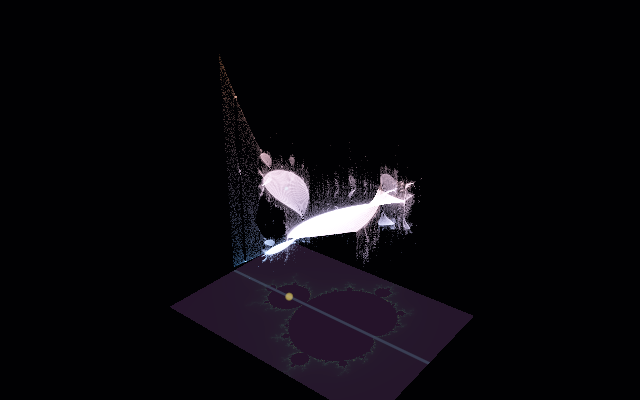
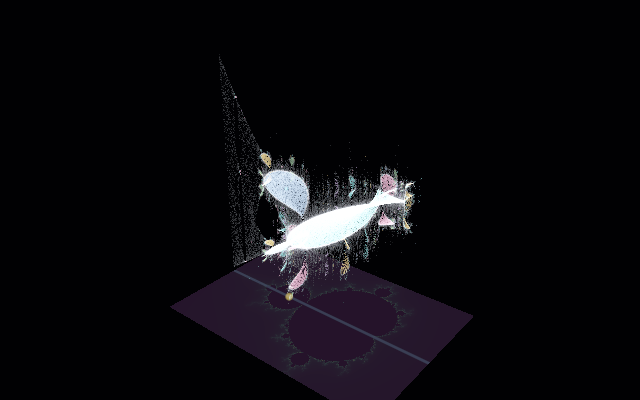
23-logistic-mandelbrot-colours: period, height, and mono colour modes
Colour that carries the mathematics: period mode (new default) gives
each detected period a categorical hue — teal cardioid, twilight-blue
period-2 disc, rose period 3, amber 4, cycling upward, chaos in a
receding slate — all softened 20% toward white so additive overlap
saturates gracefully. Height mode ramps an ice family over Re(z) for
the sheet stack; mono preserves the previous rendering verbatim as the
regression baseline. Per-point period attribute flows from the
sampler's estimates; presets pick deliberate modes (full object =
period, curtain = height, cascade = mono); thumbnail regenerated. Sol
PASS on all six criteria, including a HEAD-diff proof of mono
equivalence.

Autometta-Orchestrator: Claude Fable 5 <claude-fable-5@local>
Autometta-Worker: Claude Fable 5 <claude-fable-5@local>
Autometta-Verifier: GPT-5.6 Sol <gpt-5-6-sol@local>

Changed region(s): [[0.375, 0.36, 0.6562, 0.75]]

diff --git a/src/app/orbit3d.ts b/src/app/orbit3d.ts
@@ -15,9 +15,38 @@ const POINT_VERTEX_SHADER = `#version 300 es
 precision highp float;
 
 in vec3 a_position;
+in float a_period;
 uniform mat4 u_viewProjection;
 uniform float u_pointSize;
+uniform int u_colourMode;
 out vec3 v_colour;
+
+// Categorical hues for periods 1..7 drawn from the repo's ramp language
+// (viridis teal/green, twilight blue/violet, plasma rose, amber, ice cyan);
+// periods above seven reuse the wheel. Every hue is softened toward white in
+// main() so additive stacking saturates gracefully instead of clipping.
+vec3 periodHue(int p) {
+  int index = (p - 1) % 7;
+  if (index == 0) return vec3(0.129, 0.569, 0.549);
+  if (index == 1) return vec3(0.255, 0.431, 0.686);
+  if (index == 2) return vec3(0.800, 0.278, 0.471);
+  if (index == 3) return vec3(0.933, 0.612, 0.094);
+  if (index == 4) return vec3(0.165, 0.863, 0.863);
+  if (index == 5) return vec3(0.369, 0.788, 0.384);
+  return vec3(0.549, 0.314, 0.745);
+}
+
+// Ice-family ramp over normalised Re(z), lifted at the dark end so low sheets
+// stay visible against the near-black background.
+vec3 heightRamp(float t) {
+  vec3 deep = vec3(0.06, 0.16, 0.40);
+  vec3 mid = vec3(0.10, 0.45, 0.72);
+  vec3 glow = vec3(0.35, 0.85, 0.86);
+  vec3 pale = vec3(0.93, 0.98, 1.00);
+  if (t < 0.4) return mix(deep, mid, t / 0.4);
+  if (t < 0.75) return mix(mid, glow, (t - 0.4) / 0.35);
+  return mix(glow, pale, (t - 0.75) / 0.25);
+}
 
 void main() {
   vec3 world = vec3(
@@ -29,10 +58,18 @@ void main() {
   gl_PointSize = u_pointSize;
 
   float height = clamp((a_position.z + 2.0) * 0.25, 0.0, 1.0);
-  float offAxis = clamp(abs(a_position.y), 0.0, 1.0);
-  vec3 low = vec3(0.08, 0.38, 0.92);
-  vec3 high = vec3(1.0, 0.35, 0.12);
-  v_colour = mix(low, high, height) * mix(1.35, 0.82, offAxis);
+  if (u_colourMode == 0) {
+    int p = int(a_period + 0.5);
+    vec3 hue = p <= 0 ? vec3(0.44, 0.47, 0.53) : periodHue(p);
+    v_colour = mix(hue, vec3(1.0), 0.2) * 1.1;
+  } else if (u_colourMode == 1) {
+    v_colour = mix(heightRamp(height), vec3(1.0), 0.12) * 1.1;
+  } else {
+    float offAxis = clamp(abs(a_position.y), 0.0, 1.0);
+    vec3 low = vec3(0.08, 0.38, 0.92);
+    vec3 high = vec3(1.0, 0.35, 0.12);
+    v_colour = mix(low, high, height) * mix(1.35, 0.82, offAxis);
+  }
 }
 `;
 
@@ -217,6 +254,14 @@ export interface Orbit3DGroundPlane {
 
 export type Orbit3DCameraPose = "default" | "side";
 
+export type Orbit3DColourMode = "period" | "height" | "mono";
+
+const COLOUR_MODE_INDEX: Record<Orbit3DColourMode, number> = {
+  period: 0,
+  height: 1,
+  mono: 2,
+};
+
 export interface Orbit3DStats {
   pointCount: number;
   pointBudget: number;
@@ -254,10 +299,12 @@ export class Orbit3DPointCloud {
   private readonly groundVao: WebGLVertexArrayObject;
   private readonly toneMapVao: WebGLVertexArrayObject;
   private readonly pointBuffer: WebGLBuffer;
+  private readonly periodBuffer: WebGLBuffer;
   private readonly markerBuffer: WebGLBuffer;
   private readonly quadBuffer: WebGLBuffer;
   private readonly viewProjectionUniform: WebGLUniformLocation;
   private readonly pointSizeUniform: WebGLUniformLocation;
+  private readonly colourModeUniform: WebGLUniformLocation;
   private readonly markerViewProjectionUniform: WebGLUniformLocation;
   private readonly markerPointSizeUniform: WebGLUniformLocation;
   private readonly markerColourUniform: WebGLUniformLocation;
@@ -297,6 +344,7 @@ export class Orbit3DPointCloud {
       TONEMAP_FRAGMENT_SHADER,
     );
     this.pointBuffer = requireResource(gl.createBuffer(), "orbit3d point buffer");
+    this.periodBuffer = requireResource(gl.createBuffer(), "orbit3d period buffer");
     this.markerBuffer = requireResource(gl.createBuffer(), "orbit3d marker buffer");
     this.quadBuffer = requireResource(gl.createBuffer(), "orbit3d quad buffer");
     this.pointVao = requireResource(gl.createVertexArray(), "orbit3d point VAO");
@@ -309,6 +357,10 @@ export class Orbit3DPointCloud {
     const pointLocation = gl.getAttribLocation(this.pointProgram, "a_position");
     gl.enableVertexAttribArray(pointLocation);
     gl.vertexAttribPointer(pointLocation, 3, gl.FLOAT, false, 0, 0);
+    gl.bindBuffer(gl.ARRAY_BUFFER, this.periodBuffer);
+    const periodLocation = gl.getAttribLocation(this.pointProgram, "a_period");
+    gl.enableVertexAttribArray(periodLocation);
+    gl.vertexAttribPointer(periodLocation, 1, gl.FLOAT, false, 0, 0);
 
     gl.bindVertexArray(this.markerVao);
     gl.bindBuffer(gl.ARRAY_BUFFER, this.markerBuffer);
@@ -341,6 +393,10 @@ export class Orbit3DPointCloud {
     this.pointSizeUniform = requireResource(
       gl.getUniformLocation(this.pointProgram, "u_pointSize"),
       "orbit3d point-size uniform",
+    );
+    this.colourModeUniform = requireResource(
+      gl.getUniformLocation(this.pointProgram, "u_colourMode"),
+      "orbit3d colour-mode uniform",
     );
     this.markerViewProjectionUniform = requireResource(
       gl.getUniformLocation(this.markerProgram, "u_viewProjection"),
@@ -534,6 +590,7 @@ export class Orbit3DPointCloud {
       ? 1
       : Math.max(1, Math.min(inputHeight, Math.ceil(candidateCells / sampleWidth)));
     const positions = new Float32Array(pointBudget * 3);
+    const periods = new Float32Array(pointBudget);
     const orbitSamples = new Float32Array(sampleCount);
     let cell = 0;
     let survivorsSeen = 0;
@@ -577,6 +634,7 @@ export class Orbit3DPointCloud {
               positions[offset] = cRe;
               positions[offset + 1] = cIm;
               positions[offset + 2] = orbitSamples[sample];
+              periods[sample * maxSurvivingCells + slot] = result;
             }
           }
         }
@@ -592,12 +650,23 @@ export class Orbit3DPointCloud {
         const source = sample * maxSurvivingCells * 3;
         const target = sample * survivingCells * 3;
         positions.copyWithin(target, source, source + survivingCells * 3);
+        periods.copyWithin(
+          sample * survivingCells,
+          sample * maxSurvivingCells,
+          sample * maxSurvivingCells + survivingCells,
+        );
       }
       this.fullPointCount = survivingCells * sampleCount;
       gl.bindBuffer(gl.ARRAY_BUFFER, this.pointBuffer);
       gl.bufferData(
         gl.ARRAY_BUFFER,
         positions.subarray(0, this.fullPointCount * 3),
+        gl.STATIC_DRAW,
+      );
+      gl.bindBuffer(gl.ARRAY_BUFFER, this.periodBuffer);
+      gl.bufferData(
+        gl.ARRAY_BUFFER,
+        periods.subarray(0, this.fullPointCount),
         gl.STATIC_DRAW,
       );
       this.refreshPointCount();
@@ -648,6 +717,7 @@ export class Orbit3DPointCloud {
     height: number,
     exposure = 1.35,
     ground: Orbit3DGroundPlane | null = null,
+    colourMode: Orbit3DColourMode = "period",
   ): boolean {
     if (!this.available || !this.ensureAccumulationTarget(width, height)) return false;
     const gl = this.gl;
@@ -677,6 +747,7 @@ export class Orbit3DPointCloud {
       viewProjection,
     );
     gl.uniform1f(this.pointSizeUniform, Math.min(2, Math.max(1, width / 900)));
+    gl.uniform1i(this.colourModeUniform, COLOUR_MODE_INDEX[colourMode] ?? 0);
     gl.bindVertexArray(this.pointVao);
     gl.drawArrays(gl.POINTS, 0, this.pointCount);
 
@@ -716,6 +787,7 @@ export class Orbit3DPointCloud {
     gl.deleteVertexArray(this.groundVao);
     gl.deleteVertexArray(this.toneMapVao);
     gl.deleteBuffer(this.pointBuffer);
+    gl.deleteBuffer(this.periodBuffer);
     gl.deleteBuffer(this.markerBuffer);
     gl.deleteBuffer(this.quadBuffer);
     gl.deleteProgram(this.pointProgram);

diff --git a/src/app/webglRenderer.ts b/src/app/webglRenderer.ts
@@ -16,6 +16,7 @@ import type { SimKernel } from "./types.ts";
 import {
   GROUND_DOMAIN,
   Orbit3DPointCloud,
+  type Orbit3DColourMode,
   type Orbit3DGroundPlane,
 } from "./orbit3d.ts";
 import {
@@ -1505,10 +1506,17 @@ export class WebGLRendererBackend implements RendererBackend {
     const canvas = this.gl.canvas as HTMLCanvasElement;
     const stats = this.orbit3d?.stats;
     const exposure = numericParam(frame.params, "exposure", 1.35);
+    const colourMode = orbit3dColourMode(frame.params);
     const ground = this.ensureOrbit3dGround(frame);
     if (
       !stats ||
-      !this.orbit3d?.draw(this.displayWidth, this.displayHeight, exposure, ground)
+      !this.orbit3d?.draw(
+        this.displayWidth,
+        this.displayHeight,
+        exposure,
+        ground,
+        colourMode,
+      )
     ) {
       return;
     }
@@ -2610,6 +2618,13 @@ function numericParam(
 ): number {
   const value = params[key];
   return typeof value === "number" && Number.isFinite(value) ? value : fallback;
+}
+
+function orbit3dColourMode(
+  params: Record<string, number | boolean | string>,
+): Orbit3DColourMode {
+  const value = params.colourMode;
+  return value === "height" || value === "mono" ? value : "period";
 }
 
 function fractalKind(kernel: SimKernel): number {

diff --git a/src/app/presets.ts b/src/app/presets.ts
@@ -552,6 +552,7 @@ const PRESETS: Record<string, readonly ParamPreset[]> = {
         realSliceOnly: false,
         exposure: 1.35,
         pointDensity: 1,
+        colourMode: "period",
       },
     },
     {
@@ -566,6 +567,7 @@ const PRESETS: Record<string, readonly ParamPreset[]> = {
         realSliceOnly: true,
         exposure: 1.6,
         pointDensity: 1,
+        colourMode: "height",
       },
     },
     {
@@ -582,6 +584,7 @@ const PRESETS: Record<string, readonly ParamPreset[]> = {
         realSliceOnly: false,
         exposure: 1.35,
         pointDensity: 1,
+        colourMode: "mono",
       },
     },
   ],

diff --git a/src/sims/logistic-mandelbrot/kernel.ts b/src/sims/logistic-mandelbrot/kernel.ts
@@ -180,6 +180,13 @@ export class LogisticMandelbrotKernel implements SimKernel {
       max: 1,
       step: 0.05,
     },
+    {
+      key: "colourMode",
+      label: "Colour mode",
+      type: "enum",
+      default: "period",
+      options: ["period", "height", "mono"],
+    },
   ] as const satisfies readonly ParamDescriptor[];
 
   private width = 0;

diff --git a/essays/logistic-mandelbrot.md b/essays/logistic-mandelbrot.md
@@ -63,6 +63,8 @@ in every direction, not just along the real line.
   window near c = −1.75.
 - Orbit the camera around the full object to see off-axis bulbs hold their
   cycles as separate sheets exactly above their bulbs on the ground plane.
+- Switch the colour mode: period tints each bulb by the length of its cycle,
+  height grades the sheets by Re(z), and mono keeps the plain additive glow.
 
 ## Further reading
 
